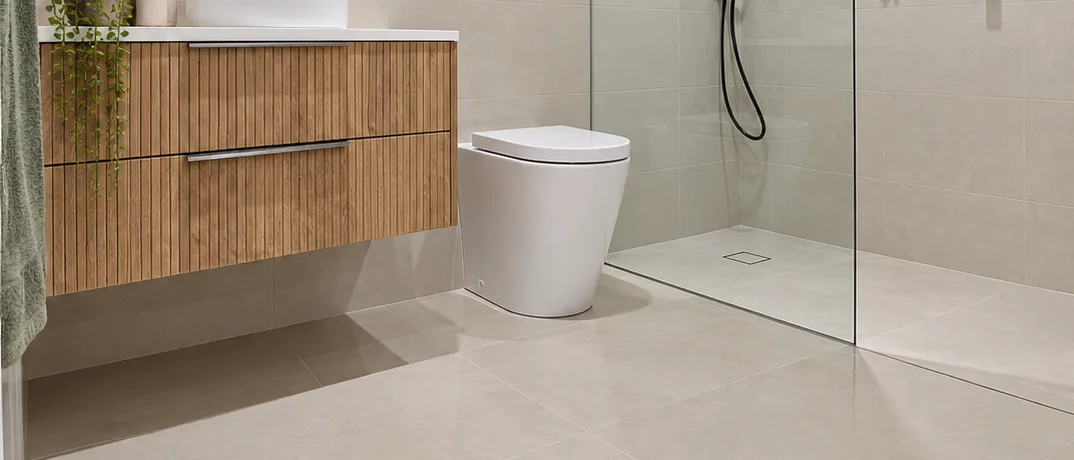
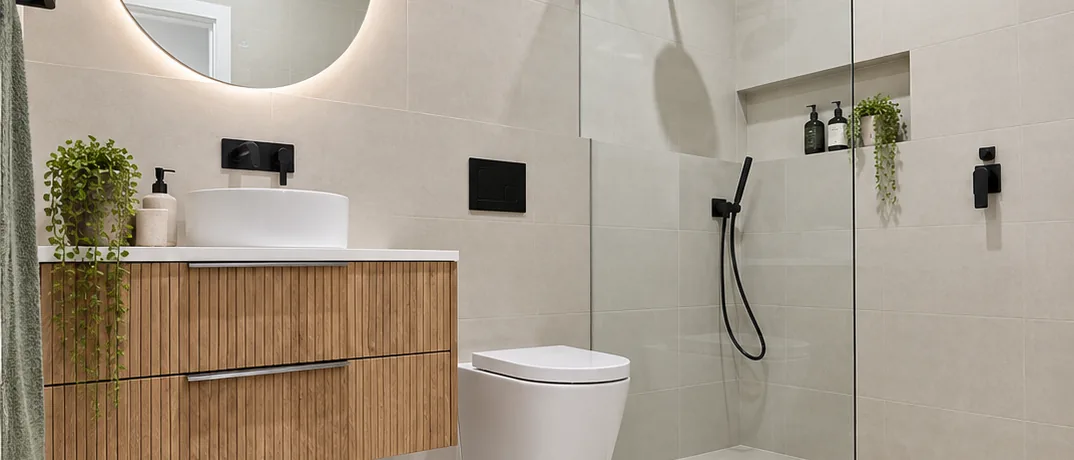
Remove the services bar and recrop the photo band
- Remove the services tab bar; services stay in the dropdown, the mobile
  menu and the home page cards
- Recrop the wide photo band so it shows the full basin and vanity
- Stop the page from being dragged sideways on phones

Claude-Session: https://claude.ai/code/session_018jf9reihbVsWvwpMrBDSE7

diff --git a/assets/css/styles.css b/assets/css/styles.css
@@ -29,7 +29,7 @@
 }
 
 *, *::before, *::after { box-sizing: border-box; }
-html { -webkit-text-size-adjust: 100%; scroll-behavior: smooth; scroll-padding-top: calc(var(--header-h) + 12px); }
+html { overflow-x: clip; -webkit-text-size-adjust: 100%; scroll-behavior: smooth; scroll-padding-top: calc(var(--header-h) + 12px); }
 body {
   margin: 0;
   background: var(--white);
@@ -39,6 +39,7 @@ body {
   line-height: 1.7;
   -webkit-font-smoothing: antialiased;
   overflow-x: hidden;
+  overflow-x: clip;
 }
 img { display: block; max-width: 100%; height: auto; }
 a { color: inherit; }
@@ -142,23 +143,11 @@ body::before { content: ""; position: fixed; inset: 0 0 auto; height: env(safe-a
 .drawer-close svg { width: 32px; height: 32px; }
 .drawer-list { list-style: none; margin-bottom: 20px; }
 .drawer-label { font-size: 13px; font-weight: 700; letter-spacing: .06em; text-transform: uppercase; color: var(--blue); margin: 6px 0 2px; }
+.svc-bar__icon { display: grid; place-items: center; width: 30px; height: 30px; border-radius: 50%; background: var(--blue); color: #fff; flex-shrink: 0; }
+.svc-bar__icon svg { width: 17px; height: 17px; }
 .drawer-list.drawer-list--svc a { display: flex; align-items: center; gap: 12px; }
 .drawer-list a { display: block; padding: 14px 0; border-bottom: 1px solid var(--line); font-size: 20px; font-weight: 500; text-decoration: none; }
 .drawer-foot { display: grid; gap: 12px; margin-top: 28px; }
-
-/* ---------- Services bar (every page) ---------- */
-.svc-bar { background: var(--navy); }
-.svc-bar ul { list-style: none; display: grid; grid-template-columns: repeat(4, 1fr); max-width: 1320px; margin: 0 auto; padding-inline: max(var(--gutter), env(safe-area-inset-left, 0px)); }
-.svc-bar a {
-  display: flex; align-items: center; justify-content: center; gap: 10px; height: 58px; padding: 0 12px;
-  color: #fff; text-decoration: none; font-weight: 600; font-size: 15px; white-space: nowrap;
-  border-bottom: 4px solid transparent; transition: background-color .2s, border-color .2s;
-}
-.svc-bar li + li a { border-left: 1px solid rgba(255,255,255,.12); }
-.svc-bar a:hover { background: rgba(255,255,255,.08); }
-.svc-bar a[aria-current="page"] { background: rgba(255,255,255,.1); border-bottom-color: var(--blue); }
-.svc-bar__icon { display: grid; place-items: center; width: 30px; height: 30px; border-radius: 50%; background: var(--blue); color: #fff; flex-shrink: 0; }
-.svc-bar__icon svg { width: 17px; height: 17px; }
 
 /* ---------- Hero ---------- */
 .hero { position: relative; isolation: isolate; color: #fff; min-height: 640px; display: flex; align-items: center; overflow: hidden; }
@@ -476,10 +465,6 @@ body::before { content: ""; position: fixed; inset: 0 0 auto; height: env(safe-a
   .footer-grid { grid-template-columns: 1fr 1fr 1fr; }
   .footer-brand { grid-column: 1 / -1; }
   .svc-cards { grid-template-columns: 1fr 1fr; }
-  .svc-bar ul { display: flex; overflow-x: auto; scrollbar-width: none; }
-  .svc-bar ul::-webkit-scrollbar { display: none; }
-  .svc-bar li { flex: 0 0 auto; }
-  .svc-bar a { height: 54px; padding: 0 16px; font-size: 14.5px; }
 }
 @media (max-width: 900px) {
   :root { --header-h: 84px; }

diff --git a/bathroom-renovations.html b/bathroom-renovations.html
@@ -54,10 +54,6 @@
   </div>
 </header>
 
-<nav class="svc-bar" aria-label="Our services">
-  <ul><li><a href="bathroom-renovations.html" aria-current="page"><span class="svc-bar__icon"><svg viewBox="0 0 20 20" fill="none" stroke="currentColor" stroke-width="1.1" aria-hidden="true"><path d="M2.5 9.5h15v6h-15zM10 9.5v6M7.5 12.5h.5M12 12.5h.5M7 9.5c0-1.5 1.3-2.5 3-2.5s3 1 3 2.5M10 4v3"/></svg></span>Bathroom Renovations</a></li><li><a href="shower-renovations.html"><span class="svc-bar__icon"><svg viewBox="0 0 20 20" fill="none" stroke="currentColor" stroke-width="1.1" aria-hidden="true"><path d="M4 17.5V5a2.5 2.5 0 012.5-2.5h2A2.5 2.5 0 0111 5v.5"/><path d="M8 5.5h6M9 9v1M11 9v1.5M13 9v1"/></svg></span>Shower Renovations</a></li><li><a href="leaking-showers.html"><span class="svc-bar__icon"><svg viewBox="0 0 20 20" fill="none" stroke="currentColor" stroke-width="1.1" aria-hidden="true"><path d="M10 2s5.5 6.2 5.5 10a5.5 5.5 0 01-11 0C4.5 8.2 10 2 10 2z"/></svg></span>Leaking Showers</a></li><li><a href="partial-renovations.html"><span class="svc-bar__icon"><svg viewBox="0 0 20 20" fill="none" stroke="currentColor" stroke-width="1.1" aria-hidden="true"><rect x="2.5" y="2.5" width="6.5" height="6.5"/><rect x="11" y="2.5" width="6.5" height="6.5" transform="rotate(8 14.25 5.75)"/><rect x="2.5" y="11" width="6.5" height="6.5"/><rect x="11" y="11" width="6.5" height="6.5"/></svg></span>Partial Renovations</a></li></ul>
-</nav>
-
 <div class="drawer" id="drawer" aria-hidden="true">
   <div class="drawer-top"><span>Menu</span><button class="drawer-close" type="button" aria-label="Close menu"><svg viewBox="0 0 24 24" aria-hidden="true"><path d="M5 5l14 14M19 5L5 19" stroke="currentColor" stroke-width="2" stroke-linecap="round"/></svg></button></div>
   <p class="drawer-label">Our Services</p>

diff --git a/leaking-showers.html b/leaking-showers.html
@@ -54,10 +54,6 @@
   </div>
 </header>
 
-<nav class="svc-bar" aria-label="Our services">
-  <ul><li><a href="bathroom-renovations.html"><span class="svc-bar__icon"><svg viewBox="0 0 20 20" fill="none" stroke="currentColor" stroke-width="1.1" aria-hidden="true"><path d="M2.5 9.5h15v6h-15zM10 9.5v6M7.5 12.5h.5M12 12.5h.5M7 9.5c0-1.5 1.3-2.5 3-2.5s3 1 3 2.5M10 4v3"/></svg></span>Bathroom Renovations</a></li><li><a href="shower-renovations.html"><span class="svc-bar__icon"><svg viewBox="0 0 20 20" fill="none" stroke="currentColor" stroke-width="1.1" aria-hidden="true"><path d="M4 17.5V5a2.5 2.5 0 012.5-2.5h2A2.5 2.5 0 0111 5v.5"/><path d="M8 5.5h6M9 9v1M11 9v1.5M13 9v1"/></svg></span>Shower Renovations</a></li><li><a href="leaking-showers.html" aria-current="page"><span class="svc-bar__icon"><svg viewBox="0 0 20 20" fill="none" stroke="currentColor" stroke-width="1.1" aria-hidden="true"><path d="M10 2s5.5 6.2 5.5 10a5.5 5.5 0 01-11 0C4.5 8.2 10 2 10 2z"/></svg></span>Leaking Showers</a></li><li><a href="partial-renovations.html"><span class="svc-bar__icon"><svg viewBox="0 0 20 20" fill="none" stroke="currentColor" stroke-width="1.1" aria-hidden="true"><rect x="2.5" y="2.5" width="6.5" height="6.5"/><rect x="11" y="2.5" width="6.5" height="6.5" transform="rotate(8 14.25 5.75)"/><rect x="2.5" y="11" width="6.5" height="6.5"/><rect x="11" y="11" width="6.5" height="6.5"/></svg></span>Partial Renovations</a></li></ul>
-</nav>
-
 <div class="drawer" id="drawer" aria-hidden="true">
   <div class="drawer-top"><span>Menu</span><button class="drawer-close" type="button" aria-label="Close menu"><svg viewBox="0 0 24 24" aria-hidden="true"><path d="M5 5l14 14M19 5L5 19" stroke="currentColor" stroke-width="2" stroke-linecap="round"/></svg></button></div>
   <p class="drawer-label">Our Services</p>

diff --git a/partial-renovations.html b/partial-renovations.html
@@ -54,10 +54,6 @@
   </div>
 </header>
 
-<nav class="svc-bar" aria-label="Our services">
-  <ul><li><a href="bathroom-renovations.html"><span class="svc-bar__icon"><svg viewBox="0 0 20 20" fill="none" stroke="currentColor" stroke-width="1.1" aria-hidden="true"><path d="M2.5 9.5h15v6h-15zM10 9.5v6M7.5 12.5h.5M12 12.5h.5M7 9.5c0-1.5 1.3-2.5 3-2.5s3 1 3 2.5M10 4v3"/></svg></span>Bathroom Renovations</a></li><li><a href="shower-renovations.html"><span class="svc-bar__icon"><svg viewBox="0 0 20 20" fill="none" stroke="currentColor" stroke-width="1.1" aria-hidden="true"><path d="M4 17.5V5a2.5 2.5 0 012.5-2.5h2A2.5 2.5 0 0111 5v.5"/><path d="M8 5.5h6M9 9v1M11 9v1.5M13 9v1"/></svg></span>Shower Renovations</a></li><li><a href="leaking-showers.html"><span class="svc-bar__icon"><svg viewBox="0 0 20 20" fill="none" stroke="currentColor" stroke-width="1.1" aria-hidden="true"><path d="M10 2s5.5 6.2 5.5 10a5.5 5.5 0 01-11 0C4.5 8.2 10 2 10 2z"/></svg></span>Leaking Showers</a></li><li><a href="partial-renovations.html" aria-current="page"><span class="svc-bar__icon"><svg viewBox="0 0 20 20" fill="none" stroke="currentColor" stroke-width="1.1" aria-hidden="true"><rect x="2.5" y="2.5" width="6.5" height="6.5"/><rect x="11" y="2.5" width="6.5" height="6.5" transform="rotate(8 14.25 5.75)"/><rect x="2.5" y="11" width="6.5" height="6.5"/><rect x="11" y="11" width="6.5" height="6.5"/></svg></span>Partial Renovations</a></li></ul>
-</nav>
-
 <div class="drawer" id="drawer" aria-hidden="true">
   <div class="drawer-top"><span>Menu</span><button class="drawer-close" type="button" aria-label="Close menu"><svg viewBox="0 0 24 24" aria-hidden="true"><path d="M5 5l14 14M19 5L5 19" stroke="currentColor" stroke-width="2" stroke-linecap="round"/></svg></button></div>
   <p class="drawer-label">Our Services</p>

diff --git a/shower-renovations.html b/shower-renovations.html
@@ -54,10 +54,6 @@
   </div>
 </header>
 
-<nav class="svc-bar" aria-label="Our services">
-  <ul><li><a href="bathroom-renovations.html"><span class="svc-bar__icon"><svg viewBox="0 0 20 20" fill="none" stroke="currentColor" stroke-width="1.1" aria-hidden="true"><path d="M2.5 9.5h15v6h-15zM10 9.5v6M7.5 12.5h.5M12 12.5h.5M7 9.5c0-1.5 1.3-2.5 3-2.5s3 1 3 2.5M10 4v3"/></svg></span>Bathroom Renovations</a></li><li><a href="shower-renovations.html" aria-current="page"><span class="svc-bar__icon"><svg viewBox="0 0 20 20" fill="none" stroke="currentColor" stroke-width="1.1" aria-hidden="true"><path d="M4 17.5V5a2.5 2.5 0 012.5-2.5h2A2.5 2.5 0 0111 5v.5"/><path d="M8 5.5h6M9 9v1M11 9v1.5M13 9v1"/></svg></span>Shower Renovations</a></li><li><a href="leaking-showers.html"><span class="svc-bar__icon"><svg viewBox="0 0 20 20" fill="none" stroke="currentColor" stroke-width="1.1" aria-hidden="true"><path d="M10 2s5.5 6.2 5.5 10a5.5 5.5 0 01-11 0C4.5 8.2 10 2 10 2z"/></svg></span>Leaking Showers</a></li><li><a href="partial-renovations.html"><span class="svc-bar__icon"><svg viewBox="0 0 20 20" fill="none" stroke="currentColor" stroke-width="1.1" aria-hidden="true"><rect x="2.5" y="2.5" width="6.5" height="6.5"/><rect x="11" y="2.5" width="6.5" height="6.5" transform="rotate(8 14.25 5.75)"/><rect x="2.5" y="11" width="6.5" height="6.5"/><rect x="11" y="11" width="6.5" height="6.5"/></svg></span>Partial Renovations</a></li></ul>
-</nav>
-
 <div class="drawer" id="drawer" aria-hidden="true">
   <div class="drawer-top"><span>Menu</span><button class="drawer-close" type="button" aria-label="Close menu"><svg viewBox="0 0 24 24" aria-hidden="true"><path d="M5 5l14 14M19 5L5 19" stroke="currentColor" stroke-width="2" stroke-linecap="round"/></svg></button></div>
   <p class="drawer-label">Our Services</p>

diff --git a/get-a-quote.html b/get-a-quote.html
@@ -51,10 +51,6 @@
   </div>
 </header>
 
-<nav class="svc-bar" aria-label="Our services">
-  <ul><li><a href="bathroom-renovations.html"><span class="svc-bar__icon"><svg viewBox="0 0 20 20" fill="none" stroke="currentColor" stroke-width="1.1" aria-hidden="true"><path d="M2.5 9.5h15v6h-15zM10 9.5v6M7.5 12.5h.5M12 12.5h.5M7 9.5c0-1.5 1.3-2.5 3-2.5s3 1 3 2.5M10 4v3"/></svg></span>Bathroom Renovations</a></li><li><a href="shower-renovations.html"><span class="svc-bar__icon"><svg viewBox="0 0 20 20" fill="none" stroke="currentColor" stroke-width="1.1" aria-hidden="true"><path d="M4 17.5V5a2.5 2.5 0 012.5-2.5h2A2.5 2.5 0 0111 5v.5"/><path d="M8 5.5h6M9 9v1M11 9v1.5M13 9v1"/></svg></span>Shower Renovations</a></li><li><a href="leaking-showers.html"><span class="svc-bar__icon"><svg viewBox="0 0 20 20" fill="none" stroke="currentColor" stroke-width="1.1" aria-hidden="true"><path d="M10 2s5.5 6.2 5.5 10a5.5 5.5 0 01-11 0C4.5 8.2 10 2 10 2z"/></svg></span>Leaking Showers</a></li><li><a href="partial-renovations.html"><span class="svc-bar__icon"><svg viewBox="0 0 20 20" fill="none" stroke="currentColor" stroke-width="1.1" aria-hidden="true"><rect x="2.5" y="2.5" width="6.5" height="6.5"/><rect x="11" y="2.5" width="6.5" height="6.5" transform="rotate(8 14.25 5.75)"/><rect x="2.5" y="11" width="6.5" height="6.5"/><rect x="11" y="11" width="6.5" height="6.5"/></svg></span>Partial Renovations</a></li></ul>
-</nav>
-
 <div class="drawer" id="drawer" aria-hidden="true">
   <div class="drawer-top"><span>Menu</span><button class="drawer-close" type="button" aria-label="Close menu"><svg viewBox="0 0 24 24" aria-hidden="true"><path d="M5 5l14 14M19 5L5 19" stroke="currentColor" stroke-width="2" stroke-linecap="round"/></svg></button></div>
   <p class="drawer-label">Our Services</p>

diff --git a/index.html b/index.html
@@ -52,10 +52,6 @@
   </div>
 </header>
 
-<nav class="svc-bar" aria-label="Our services">
-  <ul><li><a href="bathroom-renovations.html"><span class="svc-bar__icon"><svg viewBox="0 0 20 20" fill="none" stroke="currentColor" stroke-width="1.1" aria-hidden="true"><path d="M2.5 9.5h15v6h-15zM10 9.5v6M7.5 12.5h.5M12 12.5h.5M7 9.5c0-1.5 1.3-2.5 3-2.5s3 1 3 2.5M10 4v3"/></svg></span>Bathroom Renovations</a></li><li><a href="shower-renovations.html"><span class="svc-bar__icon"><svg viewBox="0 0 20 20" fill="none" stroke="currentColor" stroke-width="1.1" aria-hidden="true"><path d="M4 17.5V5a2.5 2.5 0 012.5-2.5h2A2.5 2.5 0 0111 5v.5"/><path d="M8 5.5h6M9 9v1M11 9v1.5M13 9v1"/></svg></span>Shower Renovations</a></li><li><a href="leaking-showers.html"><span class="svc-bar__icon"><svg viewBox="0 0 20 20" fill="none" stroke="currentColor" stroke-width="1.1" aria-hidden="true"><path d="M10 2s5.5 6.2 5.5 10a5.5 5.5 0 01-11 0C4.5 8.2 10 2 10 2z"/></svg></span>Leaking Showers</a></li><li><a href="partial-renovations.html"><span class="svc-bar__icon"><svg viewBox="0 0 20 20" fill="none" stroke="currentColor" stroke-width="1.1" aria-hidden="true"><rect x="2.5" y="2.5" width="6.5" height="6.5"/><rect x="11" y="2.5" width="6.5" height="6.5" transform="rotate(8 14.25 5.75)"/><rect x="2.5" y="11" width="6.5" height="6.5"/><rect x="11" y="11" width="6.5" height="6.5"/></svg></span>Partial Renovations</a></li></ul>
-</nav>
-
 <div class="drawer" id="drawer" aria-hidden="true">
   <div class="drawer-top"><span>Menu</span><button class="drawer-close" type="button" aria-label="Close menu"><svg viewBox="0 0 24 24" aria-hidden="true"><path d="M5 5l14 14M19 5L5 19" stroke="currentColor" stroke-width="2" stroke-linecap="round"/></svg></button></div>
   <p class="drawer-label">Our Services</p>

diff --git a/privacy-policy.html b/privacy-policy.html
@@ -51,10 +51,6 @@
   </div>
 </header>
 
-<nav class="svc-bar" aria-label="Our services">
-  <ul><li><a href="bathroom-renovations.html"><span class="svc-bar__icon"><svg viewBox="0 0 20 20" fill="none" stroke="currentColor" stroke-width="1.1" aria-hidden="true"><path d="M2.5 9.5h15v6h-15zM10 9.5v6M7.5 12.5h.5M12 12.5h.5M7 9.5c0-1.5 1.3-2.5 3-2.5s3 1 3 2.5M10 4v3"/></svg></span>Bathroom Renovations</a></li><li><a href="shower-renovations.html"><span class="svc-bar__icon"><svg viewBox="0 0 20 20" fill="none" stroke="currentColor" stroke-width="1.1" aria-hidden="true"><path d="M4 17.5V5a2.5 2.5 0 012.5-2.5h2A2.5 2.5 0 0111 5v.5"/><path d="M8 5.5h6M9 9v1M11 9v1.5M13 9v1"/></svg></span>Shower Renovations</a></li><li><a href="leaking-showers.html"><span class="svc-bar__icon"><svg viewBox="0 0 20 20" fill="none" stroke="currentColor" stroke-width="1.1" aria-hidden="true"><path d="M10 2s5.5 6.2 5.5 10a5.5 5.5 0 01-11 0C4.5 8.2 10 2 10 2z"/></svg></span>Leaking Showers</a></li><li><a href="partial-renovations.html"><span class="svc-bar__icon"><svg viewBox="0 0 20 20" fill="none" stroke="currentColor" stroke-width="1.1" aria-hidden="true"><rect x="2.5" y="2.5" width="6.5" height="6.5"/><rect x="11" y="2.5" width="6.5" height="6.5" transform="rotate(8 14.25 5.75)"/><rect x="2.5" y="11" width="6.5" height="6.5"/><rect x="11" y="11" width="6.5" height="6.5"/></svg></span>Partial Renovations</a></li></ul>
-</nav>
-
 <div class="drawer" id="drawer" aria-hidden="true">
   <div class="drawer-top"><span>Menu</span><button class="drawer-close" type="button" aria-label="Close menu"><svg viewBox="0 0 24 24" aria-hidden="true"><path d="M5 5l14 14M19 5L5 19" stroke="currentColor" stroke-width="2" stroke-linecap="round"/></svg></button></div>
   <p class="drawer-label">Our Services</p>

diff --git a/terms.html b/terms.html
@@ -51,10 +51,6 @@
   </div>
 </header>
 
-<nav class="svc-bar" aria-label="Our services">
-  <ul><li><a href="bathroom-renovations.html"><span class="svc-bar__icon"><svg viewBox="0 0 20 20" fill="none" stroke="currentColor" stroke-width="1.1" aria-hidden="true"><path d="M2.5 9.5h15v6h-15zM10 9.5v6M7.5 12.5h.5M12 12.5h.5M7 9.5c0-1.5 1.3-2.5 3-2.5s3 1 3 2.5M10 4v3"/></svg></span>Bathroom Renovations</a></li><li><a href="shower-renovations.html"><span class="svc-bar__icon"><svg viewBox="0 0 20 20" fill="none" stroke="currentColor" stroke-width="1.1" aria-hidden="true"><path d="M4 17.5V5a2.5 2.5 0 012.5-2.5h2A2.5 2.5 0 0111 5v.5"/><path d="M8 5.5h6M9 9v1M11 9v1.5M13 9v1"/></svg></span>Shower Renovations</a></li><li><a href="leaking-showers.html"><span class="svc-bar__icon"><svg viewBox="0 0 20 20" fill="none" stroke="currentColor" stroke-width="1.1" aria-hidden="true"><path d="M10 2s5.5 6.2 5.5 10a5.5 5.5 0 01-11 0C4.5 8.2 10 2 10 2z"/></svg></span>Leaking Showers</a></li><li><a href="partial-renovations.html"><span class="svc-bar__icon"><svg viewBox="0 0 20 20" fill="none" stroke="currentColor" stroke-width="1.1" aria-hidden="true"><rect x="2.5" y="2.5" width="6.5" height="6.5"/><rect x="11" y="2.5" width="6.5" height="6.5" transform="rotate(8 14.25 5.75)"/><rect x="2.5" y="11" width="6.5" height="6.5"/><rect x="11" y="11" width="6.5" height="6.5"/></svg></span>Partial Renovations</a></li></ul>
-</nav>
-
 <div class="drawer" id="drawer" aria-hidden="true">
   <div class="drawer-top"><span>Menu</span><button class="drawer-close" type="button" aria-label="Close menu"><svg viewBox="0 0 24 24" aria-hidden="true"><path d="M5 5l14 14M19 5L5 19" stroke="currentColor" stroke-width="2" stroke-linecap="round"/></svg></button></div>
   <p class="drawer-label">Our Services</p>

diff --git a/assets/js/main.js b/assets/js/main.js
@@ -154,13 +154,6 @@
     });
   });
 
-  /* Services bar: bring the current page's tab into view on small screens */
-  var curTab = document.querySelector(".svc-bar a[aria-current='page']");
-  if (curTab) {
-    var bar = curTab.closest("ul");
-    bar.scrollLeft = curTab.parentElement.offsetLeft - (bar.clientWidth - curTab.offsetWidth) / 2;
-  }
-
   /* Back to top */
   var toTop = document.querySelector(".to-top");
   if (toTop) {

diff --git a/tools/build_site.py b/tools/build_site.py
@@ -105,7 +105,6 @@ def header(active):
     svc_active = active in [s[0] for s in SERVICES]
     menu = "".join(f'<li><a href="{f}"{cur(f)}>{n}</a></li>' for f, n, _ in SERVICES)
     home = "" if active == "index.html" else "index.html"
-    svc_tabs = "".join(f'<li><a href="{f}"{cur(f)}><span class="svc-bar__icon">{ICONS[SVC_ICON[f]]}</span>{n}</a></li>' for f, n, _ in SERVICES)
     return f"""</head>
 <body>
 <a class="skip-link" href="#main">Skip to content</a>
@@ -137,10 +136,6 @@ def header(active):
     <button class="nav-toggle" type="button" aria-expanded="false" aria-controls="drawer" aria-label="Open menu">{I_MENU}</button>
   </div>
 </header>
-
-<nav class="svc-bar" aria-label="Our services">
-  <ul>{svc_tabs}</ul>
-</nav>
 
 <div class="drawer" id="drawer" aria-hidden="true">
   <div class="drawer-top"><span>Menu</span><button class="drawer-close" type="button" aria-label="Close menu">{I_CLOSE}</button></div>
